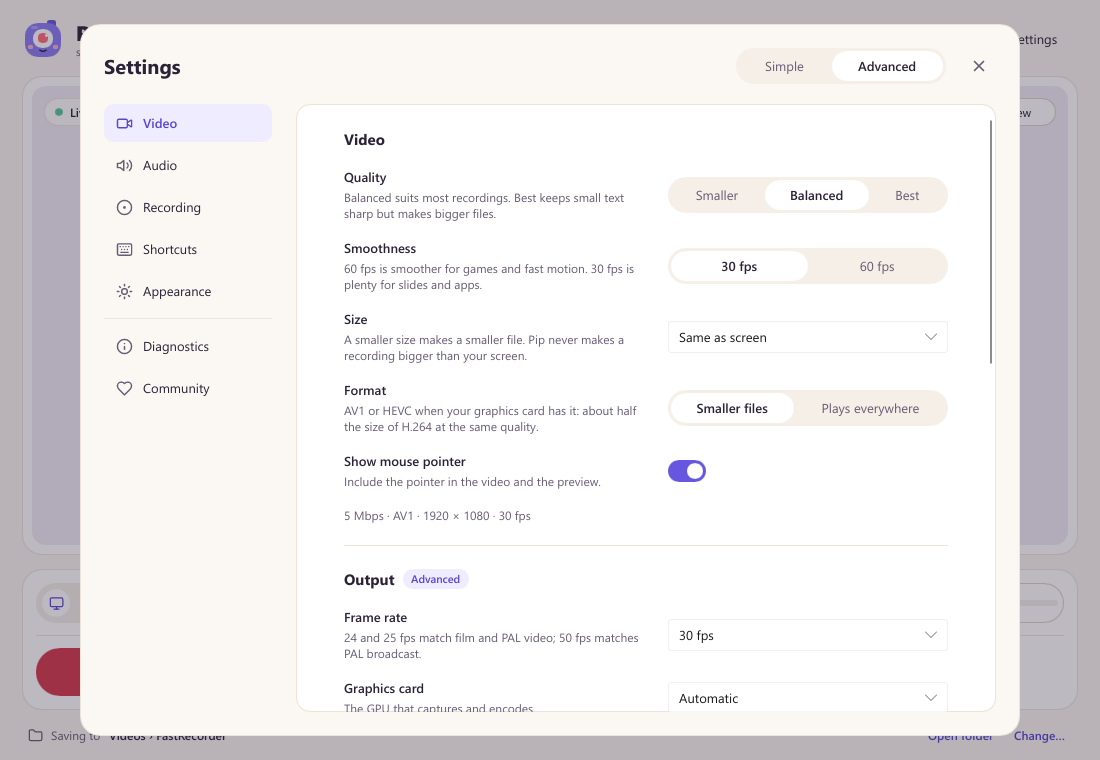
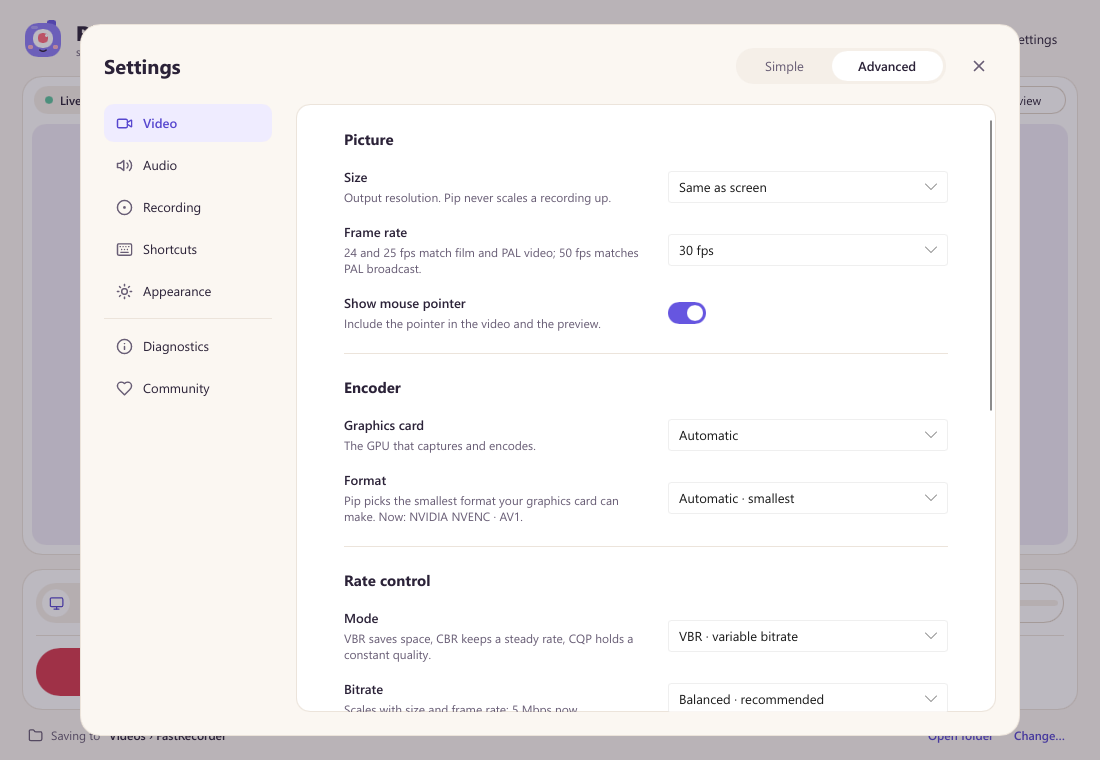
Release Pip 0.2.0-alpha.1 with clearer Simple and Advanced settings
- Advanced replaces the simple choices instead of repeating them: Picture,
  Encoder, Rate control and NVIDIA tuning sections, with no per-group badges.
- Format (codec) comes first and the Encoder list shows only encoders on this
  PC that can make it, so format and encoder can no longer contradict.
- Recording settings group file naming with the save folder and timers with
  process priority; the duplicate advanced toggle in Appearance is gone.
- Bump to 0.2.0-alpha.1, package as Pip, and update the changelog.

diff --git a/crates/app/src/studio/encoding.rs b/crates/app/src/studio/encoding.rs
@@ -60,6 +60,64 @@ pub(super) const ENCODER_NAMES: [&str; 9] = [
     "Windows software · H.264",
     "rav1e software · AV1",
 ];
+/// Format choices in Advanced, as (label, codec). The codec numbers match
+/// `video-codec`: 0 automatic, 1 AV1, 2 HEVC, 3 H.264.
+const CODEC_NAMES: [&str; 4] = [
+    "Automatic · smallest",
+    "AV1",
+    "HEVC · H.265",
+    "H.264 · plays everywhere",
+];
+
+/// The format an encoder choice produces (0 when Pip decides).
+fn codec_of(choice: i32, prefer_h264: bool) -> usize {
+    match choice {
+        0 if prefer_h264 => 3,
+        0 => 0,
+        1 | 4 | 8 => 1,
+        2 | 5 => 2,
+        _ => 3,
+    }
+}
+
+/// Encoders on this PC that can make `codec`, as (label, encoder choice).
+fn encoders_for(codec: usize, available: &[usize]) -> Vec<(&'static str, i32)> {
+    let options: &[(&str, i32)] = match codec {
+        1 => &[
+            ("NVIDIA NVENC", 1),
+            ("Intel Quick Sync", 4),
+            ("Software · rav1e (CPU)", 8),
+        ],
+        2 => &[("NVIDIA NVENC", 2), ("Intel Quick Sync", 5)],
+        3 => &[
+            ("Automatic · best available", 0),
+            ("NVIDIA NVENC", 3),
+            ("Intel Quick Sync", 6),
+            ("Software · Windows (CPU)", 7),
+        ],
+        _ => &[],
+    };
+    options
+        .iter()
+        .copied()
+        .filter(|&(_, choice)| available.contains(&(choice as usize)))
+        .collect()
+}
+
+/// Formats offered in Advanced: HEVC only when some encoder here can make it.
+fn codecs_available(available: &[usize]) -> Vec<usize> {
+    (0..CODEC_NAMES.len())
+        .filter(|&codec| codec == 0 || !encoders_for(codec, available).is_empty())
+        .collect()
+}
+
+fn string_model(values: impl Iterator<Item = &'static str>) -> slint::ModelRc<slint::SharedString> {
+    std::rc::Rc::new(slint::VecModel::from(
+        values.map(slint::SharedString::from).collect::<Vec<_>>(),
+    ))
+    .into()
+}
+
 pub(super) fn encoder_choices(ui: &MainWindow, state: &AppState) -> Vec<usize> {
     let explicit_gpu = if ui.get_gpu_choice() > 0 {
         state.gpus.get((ui.get_gpu_choice() - 1) as usize)
@@ -130,16 +188,19 @@ pub(super) fn update_encoding_labels(ui: &MainWindow, state: &AppState) {
         }
         .into(),
     );
-    ui.set_encoder_names(
-        std::rc::Rc::new(slint::VecModel::from(
-            choices
-                .iter()
-                .map(|&i| slint::SharedString::from(ENCODER_NAMES[i]))
-                .collect::<Vec<_>>(),
-        ))
-        .into(),
+    let codec_index = codec_of(choice as i32, ui.get_prefer_h264());
+    let codecs = codecs_available(&choices);
+    ui.set_video_codec(codec_index as i32);
+    ui.set_codec_names(string_model(codecs.iter().map(|&c| CODEC_NAMES[c])));
+    ui.set_codec_list_index(codecs.iter().position(|&c| c == codec_index).unwrap_or(0) as i32);
+    let encoders = encoders_for(codec_index, &choices);
+    ui.set_encoder_names(string_model(encoders.iter().map(|&(name, _)| name)));
+    ui.set_encoder_list_index(
+        encoders
+            .iter()
+            .position(|&(_, c)| c == choice as i32)
+            .unwrap_or(0) as i32,
     );
-    ui.set_encoder_list_index(choices.iter().position(|&i| i == choice).unwrap_or(0) as i32);
     ui.set_gpu_label(if choice >= 7 {
         "CPU".into()
     } else {
@@ -192,6 +253,13 @@ pub(super) fn update_encoding_labels(ui: &MainWindow, state: &AppState) {
         else { "Explicit selection; codec / vendor failures are reported without switching encoders." }.into());
 }
 
+fn set_encoder(ui: &MainWindow, state: &AppState, choice: i32, h264: bool) {
+    ui.set_encoder_choice(choice);
+    ui.set_prefer_h264(h264);
+    update_encoding_labels(ui, state);
+    persist_preferences(ui, state);
+}
+
 /// Wires encoder selection and probes GPU encoders off the UI thread.
 pub(super) fn install(ui: &MainWindow, state: &Shared) -> std::io::Result<()> {
     let weak = ui.as_weak();
@@ -199,15 +267,41 @@ pub(super) fn install(ui: &MainWindow, state: &Shared) -> std::io::Result<()> {
     ui.on_encoder_selected(move |index| {
         if let Some(ui) = weak.upgrade() {
             let state = encoder_state.locked();
-            let choices = encoder_choices(&ui, &state);
-            if let Some(&choice) = usize::try_from(index)
+            let codec = codec_of(ui.get_encoder_choice(), ui.get_prefer_h264());
+            let encoders = encoders_for(codec, &encoder_choices(&ui, &state));
+            if let Some(&(_, choice)) = usize::try_from(index)
                 .ok()
-                .and_then(|index| choices.get(index))
+                .and_then(|index| encoders.get(index))
             {
-                ui.set_encoder_choice(choice as i32);
-                update_encoding_labels(&ui, &state);
-                persist_preferences(&ui, &state);
+                set_encoder(&ui, &state, choice, codec == 3);
             }
+        }
+    });
+    // Advanced → Format: pick the codec, then the best encoder here that makes it.
+    let weak = ui.as_weak();
+    let codec_state = state.clone();
+    ui.on_codec_selected(move |index| {
+        if let Some(ui) = weak.upgrade() {
+            let state = codec_state.locked();
+            let available = encoder_choices(&ui, &state);
+            let Some(codec) = usize::try_from(index)
+                .ok()
+                .and_then(|index| codecs_available(&available).get(index).copied())
+            else {
+                return;
+            };
+            let choice = encoders_for(codec, &available)
+                .first()
+                .map_or(0, |&(_, choice)| choice);
+            set_encoder(&ui, &state, choice, codec == 3);
+        }
+    });
+    // Simple → Format: smaller files or plays everywhere; Pip picks the encoder.
+    let weak = ui.as_weak();
+    let format_state = state.clone();
+    ui.on_format_selected(move |index| {
+        if let Some(ui) = weak.upgrade() {
+            set_encoder(&ui, &format_state.locked(), 0, index == 1);
         }
     });
     let weak = ui.as_weak();

diff --git a/crates/app/src/docs.rs b/crates/app/src/docs.rs
@@ -54,12 +54,13 @@ pub fn snapshot(ui: MainWindow, path: &Path, view: &str) -> Result<(), Box<dyn s
                 .into()
             };
             ui.set_gpu_names(model(&["Automatic", "NVIDIA GeForce RTX 4070"]));
-            ui.set_encoder_names(model(&[
-                "Automatic · best available",
-                "NVIDIA AV1",
-                "NVIDIA HEVC",
-                "NVIDIA H.264",
+            ui.set_codec_names(model(&[
+                "Automatic · smallest",
+                "AV1",
+                "HEVC · H.265",
+                "H.264 · plays everywhere",
             ]));
+            ui.set_encoder_label("NVIDIA NVENC · AV1".into());
             ui.set_nvenc_controls(true);
             ui.set_keyframe_controls(true);
             settings(0, true);

diff --git a/CHANGELOG.md b/CHANGELOG.md
@@ -2,6 +2,21 @@
 
 ## Unreleased
 
+## 0.2.0-alpha.1 — 2026-10-08
+
+FastRecorder is now **Pip**, a friendly screen recorder with a new look, simple and advanced settings, and a much lighter live preview. Still a Windows x64 preview release. The repository moved to `neerajsunil/pip-recorder`; the old address redirects. The executable and settings folder keep the `fastrecorder` name, so existing settings carry over.
+
+- New identity: Pip the camera mascot, a light pastel theme and a midnight dark theme. Follows the Windows light/dark setting by default (System, Light or Dark in Settings → Appearance), including the title bar.
+- Settings switch between **Simple** (quality, smoothness, size, format, mouse pointer, countdown, after-save action) and **Advanced**, which replaces those choices with the exact controls behind them: frame rate, output size, GPU, format then encoder, VBR/CBR/CQP, bitrate and peak bitrate, keyframe interval, NVIDIA preset, tuning, multipass, look-ahead, spatial/temporal AQ and B-frames, software AV1 speed, audio bitrate, file-name pattern, process priority and automatic stop.
+- New options: output scaling to 2160p/1440p/1080p/720p, H.264 "Plays everywhere" format, 3/5/10 s countdown, show or play the file after saving, file-name patterns, process priority and stop-after timers.
+- The studio shows where recordings are saved, with Open folder and Change…; duplicate buttons are gone.
+- Native GPU live preview at up to 30 fps with no CPU copies; SDR displays are captured as 8-bit BGRA. Idle use drops from about 360 MB and two-thirds of a CPU core to about 110 MB and a few percent; recording memory drops by about a quarter.
+- Better quality defaults: higher bitrate table, NVENC P5 with spatial AQ and quarter-resolution multipass; look-ahead is opt-in.
+- Fix a purple flash over Settings the first time it opens.
+- Faster development builds with a `fast` Cargo profile (`.\run.ps1 -Fast`).
+
+### Earlier unreleased work, included in 0.2.0-alpha.1
+
 - Restructure the workspace for maintainability and future platforms: portable `fastrecorder-core` and new `fastrecorder-mp4` crates, a `fastrecorder-platform` facade, and the Windows backend in `crates/platform-windows` split into `capture`, `pipeline`, `encode`, `audio` and shell modules. The app's controller is split into per-area `studio` modules and the UI into reusable Slint components and pages. See docs/ARCHITECTURE.md. No intended behavior change.
 - MP4 muxing now has structural tests (H.264/AV1 configuration, B-frame composition offsets, AAC interleaving and post-hoc attachment), and CI runs the workspace tests on Windows plus the portable crates on Linux x64/ARM64 and macOS.
 - A panic inside one UI callback no longer poisons the shared studio state for later callbacks.

diff --git a/README.md b/README.md
@@ -35,7 +35,7 @@ Pip was previously called FastRecorder, and the old repository address redirects
 
 The line under the studio shows where recordings are saved, with **Open folder** and **Change…**. After a recording, **Play** and **Show in folder** open it. Fresh installs record at **30 fps** with desktop audio on and the microphone off.
 
-Settings has two levels. **Simple** shows plain choices: quality (Smaller, Balanced, Best), smoothness (30 or 60 fps), size, mouse pointer, devices and volume, countdown, what to do after saving, and the theme (System, Light or Dark). **Advanced** adds OBS-style controls: exact frame rate, GPU and encoder, rate control (VBR, CBR, CQP), bitrate and peak bitrate, keyframe interval, and for NVIDIA the preset, tuning, multipass, look-ahead, spatial and temporal AQ and max B-frames. It also adds the software AV1 speed, audio quality, a file-name pattern, process priority and an automatic stop time. **Format** chooses between smaller files (AV1 or HEVC) and **Plays everywhere** (H.264).
+Settings has two levels. **Simple** shows plain choices: quality (Smaller, Balanced, Best), smoothness (30 or 60 fps), size, mouse pointer, devices and volume, countdown, what to do after saving, and the theme (System, Light or Dark). **Advanced** swaps those choices for the exact OBS-style controls behind them, so nothing appears twice: exact frame rate, GPU and encoder, rate control (VBR, CBR, CQP), bitrate and peak bitrate, keyframe interval, and for NVIDIA the preset, tuning, multipass, look-ahead, spatial and temporal AQ and max B-frames. It also adds the software AV1 speed, audio quality, a file-name pattern, process priority and an automatic stop time. **Format** chooses between smaller files (AV1 or HEVC) and **Plays everywhere** (H.264).
 
 ![Pip screen recorder in dark mode, with neutral midnight greys and a moonlight blue accent](docs/images/studio-dark.png)
 

diff --git a/docs/RELEASING.md b/docs/RELEASING.md
@@ -1,4 +1,4 @@
-# Releasing FastRecorder
+# Releasing Pip
 
 Preview releases must remain marked as GitHub prereleases until the recording/device matrix and known release blockers in [RELEASE_READINESS.md](RELEASE_READINESS.md) are resolved. A successful CI build is not recording/playback validation.
 
@@ -13,7 +13,7 @@ Preview releases must remain marked as GitHub prereleases until the recording/de
 
 ```powershell
 cargo build -p fastrecorder --release --locked
-.\scripts\package-windows.ps1 -Version 0.1.0-alpha.1 -Binary .\target\release\fastrecorder.exe
+.\scripts\package-windows.ps1 -Version 0.2.0-alpha.1 -Binary .\target\release\fastrecorder.exe
 ```
 
 The script stages the binary, release notes, license and third-party notices, generates dependency/license metadata from the lockfile and includes available license files. It produces an x64 ZIP and SHA-256 checksums in dist/. Install current Visual C++ runtime if the native bridge requires it; no driver DLLs or FFmpeg are shipped. Signing is not implemented yet; do not imply a signed build.
